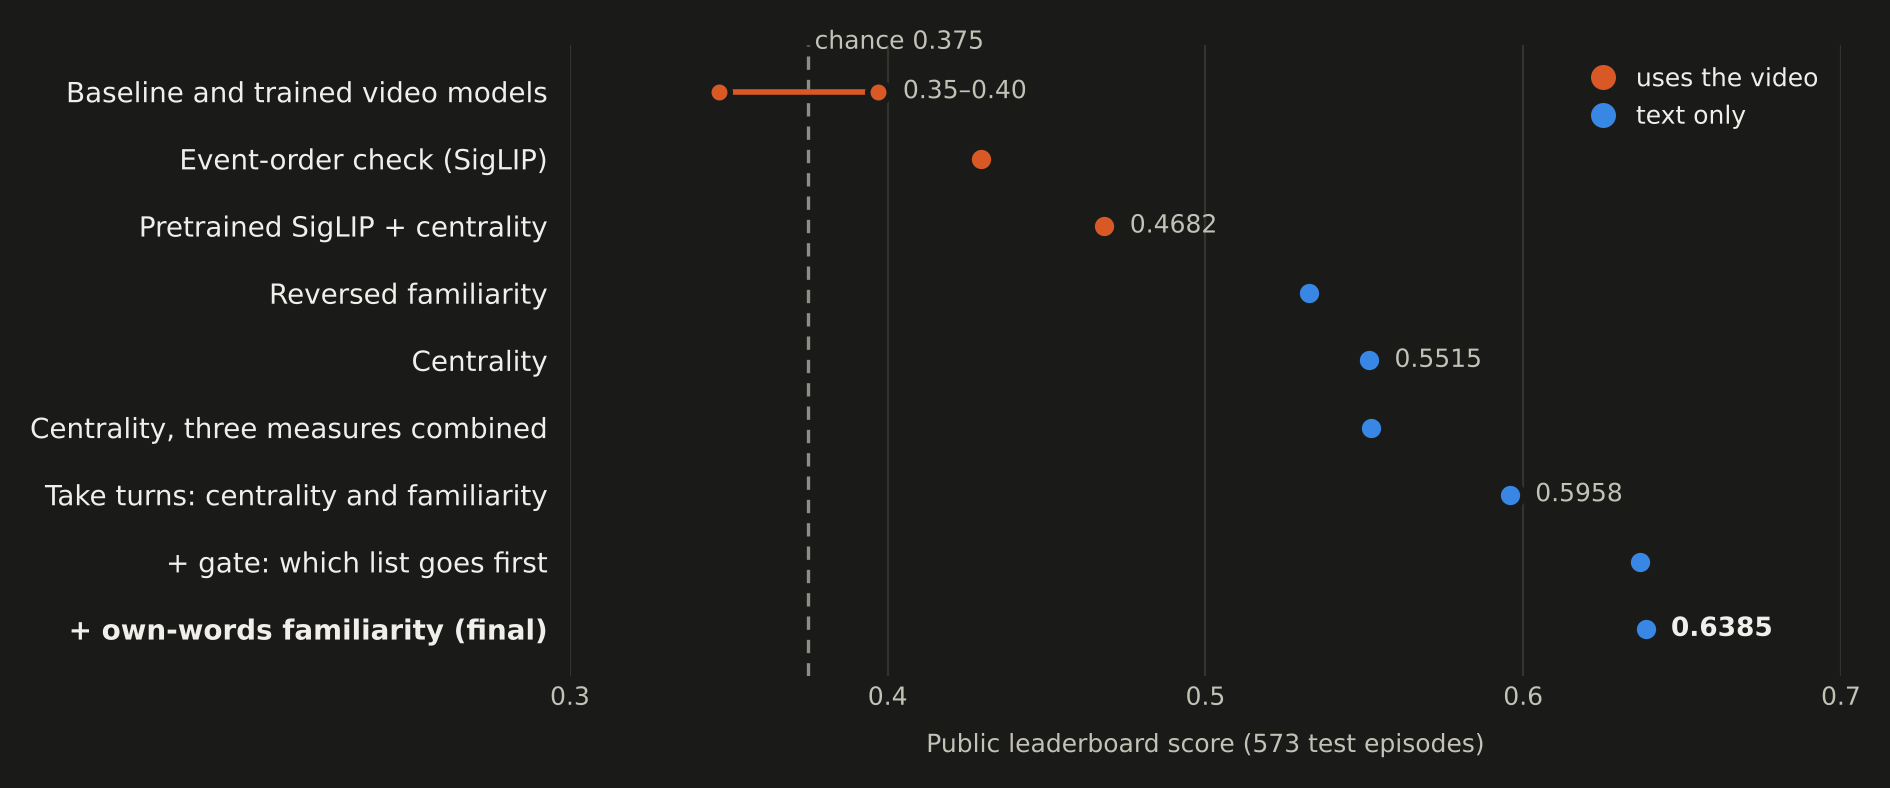
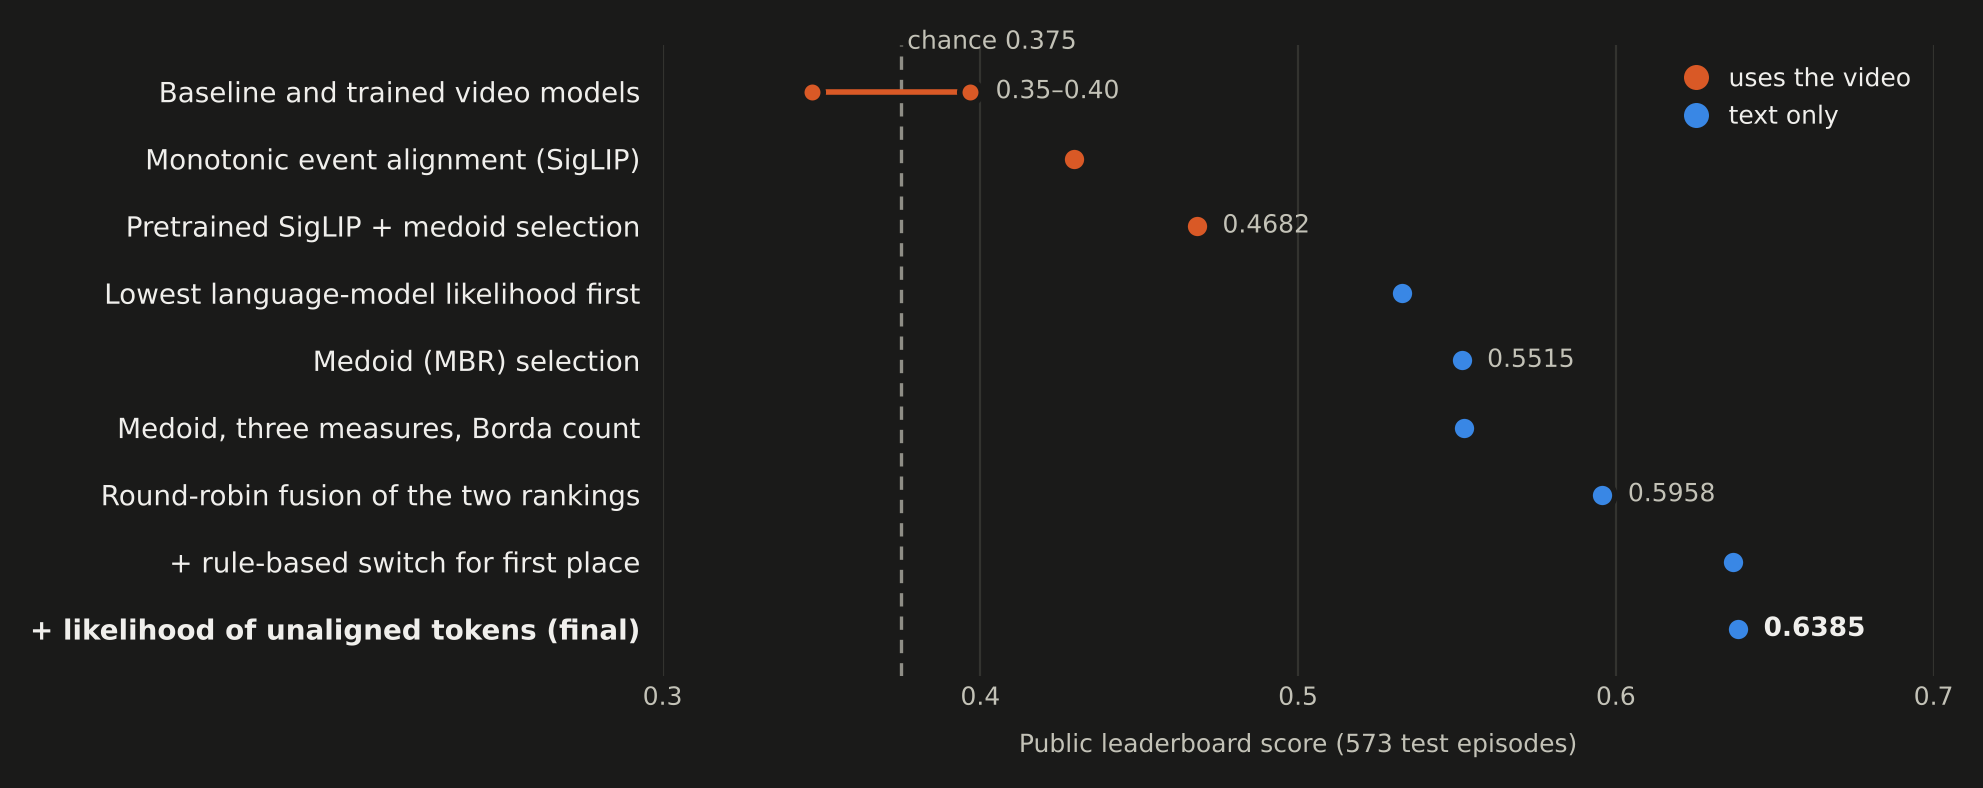
Use standard method names in the README, figures and docstrings; add docs/glossary.md
Medoid / MBR selection (our centrality), n-gram language-model likelihood (familiarity), round-robin rank
fusion (interleave), rule-based switch (gate), unaligned tokens (own words), Borda count (text_blend),
monotonic alignment (event-order check), and the main finding named as annotation artifacts measured by
a hypothesis-only baseline, with references checked against their sources. Code identifiers, config keys
and --method values keep our names, since the submitted configuration depends on them; the
competition-day records keep their wording and point to the glossary.

diff --git a/docs/figures/make_figures.py b/docs/figures/make_figures.py
@@ -32,17 +32,17 @@ THEMES = {  # reference palette (dataviz skill), validated: slot 1 blue, slot 2 
 # (label, public score, uses the video); top to bottom in the order we got there
 STEPS = [
     ("Baseline and trained video models", (0.3469, 0.3968), True),
-    ("Event-order check (SigLIP)", 0.4295, True),
-    ("Pretrained SigLIP + centrality", 0.4682, True),
-    ("Reversed familiarity", 0.5327, False),
-    ("Centrality", 0.5515, False),
-    ("Centrality, three measures combined", 0.5521, False),
-    ("Take turns: centrality and familiarity", 0.5958, False),
-    ("+ gate: which list goes first", 0.6368, False),
-    ("+ own-words familiarity (final)", 0.6385, False),
-]
-LABELLED = {"Pretrained SigLIP + centrality", "Centrality", "Take turns: centrality and familiarity",
-            "+ own-words familiarity (final)"}
+    ("Monotonic event alignment (SigLIP)", 0.4295, True),
+    ("Pretrained SigLIP + medoid selection", 0.4682, True),
+    ("Lowest language-model likelihood first", 0.5327, False),
+    ("Medoid (MBR) selection", 0.5515, False),
+    ("Medoid, three measures, Borda count", 0.5521, False),
+    ("Round-robin fusion of the two rankings", 0.5958, False),
+    ("+ rule-based switch for first place", 0.6368, False),
+    ("+ likelihood of unaligned tokens (final)", 0.6385, False),
+]  # standard names; docs/glossary.md maps them to the names in our code
+LABELLED = {"Pretrained SigLIP + medoid selection", "Medoid (MBR) selection", "Round-robin fusion of the two rankings",
+            "+ likelihood of unaligned tokens (final)"}
 
 # The organizers' slides show a reversed action and an added action; the other two are our negative types.
 CANDIDATES = [

diff --git a/team/inference/submission_text_rules.py b/team/inference/submission_text_rules.py
@@ -16,6 +16,9 @@ character familiarity (team/inference/submission_chars.py, case and punctuation 
 the first list from a candidate's own words only (`own_word_scores`), and `gate_mean` from the within-episode mean of that and
 the least familiar wording; otherwise, `gate_base_first` moves the candidates with no own words to the front. No state is
 kept between episodes.
+
+Standard names: medoid (MBR) selection fused by rank sum (Borda count); round-robin rank fusion (interleave);
+a rule-based switch (gate); unaligned tokens (own words). Our names are mapped in docs/glossary.md.
 """
 
 import difflib

diff --git a/team/inference/submission_style.py b/team/inference/submission_style.py
@@ -6,6 +6,9 @@ create. `style_sign` in inference_config.json set to -1 favours the least famili
 this rule scored 0.2411 publicly, well below chance. `central_rank_weight` adds the rank from
 candidate similarity. `merge` set to "interleave" instead takes the most central candidate, then the
 top of the style ranking, and so on in turn. No images are used, and no state is kept between episodes.
+
+Standard names: n-gram language-model likelihood (interpolated word bigram); style_sign -1 ranks lowest
+likelihood first. Our names are mapped in docs/glossary.md.
 """
 
 import difflib

diff --git a/team/inference/submission_regime.py b/team/inference/submission_regime.py
@@ -8,6 +8,9 @@ prefers wording that the training descriptions make less likely (bigram counts s
 weights/bigram_counts.json), because publicly the most familiar wording scored far below chance.
 With `"gate": false` in weights/bigram_counts.json, centrality always goes first (plain
 interleaving). Reads only the episode's candidate texts, with no state kept between episodes.
+
+Standard names: a rule-based switch between medoid selection and lowest language-model likelihood, then round-
+robin rank fusion. Our names are mapped in docs/glossary.md.
 """
 
 import difflib

diff --git a/team/inference/submission_central.py b/team/inference/submission_central.py
@@ -4,6 +4,9 @@ A diagnostic: it reads only the episode's own candidate texts and no video, so i
 shows whether test negatives are edits of the correct description. When every negative changes
 one part of the correct text, the correct text is the one most similar to all the others. Uses
 nothing but the standard library, and keeps no state between episodes.
+
+Standard names: medoid / minimum Bayes risk (MBR) selection with word-sequence (Ratcliff/Obershelp)
+similarity. Our names are mapped in docs/glossary.md.
 """
 
 import difflib

diff --git a/team/candidates/lexical.py b/team/candidates/lexical.py
@@ -5,6 +5,9 @@ validation split one description was the negative of 28 others while 103 were ne
 text-only classifier could spot negatives from that skew (score 0.485). CSLS (Conneau et al.,
 2018) subtracts each description's mean similarity to its k nearest neighbours, which spreads the
 picks and brings the text-only score to chance. Uses only the descriptions; no model scores.
+
+Standard names: hubness reduction (CSLS) applied to word-overlap similarity. Our names are mapped in
+docs/glossary.md.
 """
 
 import numpy as np

diff --git a/team/inference/submission_order.py b/team/inference/submission_order.py
@@ -7,6 +7,9 @@ when the order fits, more negative the more it has to be bent. Ties go to centra
 (submission_central.py). No trained layers; SigLIP is stored in float16 and its tokenizer is read
 from tokenizer.json, because sentencepiece isn't in the evaluation environment. No state is kept
 between episodes. Same scoring as team/evaluation/order_check.py.
+
+Standard names: monotonic event-to-frame alignment by dynamic programming. Our names are mapped in
+docs/glossary.md.
 """
 
 import re

diff --git a/team/evaluation/text_rules.py b/team/evaluation/text_rules.py
@@ -23,6 +23,9 @@ public scores of the rules that were uploaded.
 
     python -m team.evaluation.text_rules --generated cuda/outputs/qwen/long_negatives.jsonl \
         --splits cuda/outputs/baseline/splits.json
+
+Standard names: medoid (MBR) selection, n-gram language-model likelihood, round-robin rank fusion and a rule-
+based switch, checked offline. Our names are mapped in docs/glossary.md.
 """
 
 import argparse

diff --git a/team/evaluation/merge_bounds.py b/team/evaluation/merge_bounds.py
@@ -12,6 +12,9 @@ pair (a, b) this enumerates all 4! x 4! placements of the negatives and scores t
 
     python -m team.evaluation.merge_bounds cuda/public_csv/central_submission.csv cuda/public_csv/text_style.csv \
         --reverse-second --observed-rank-sum 0.5443
+
+Standard names: worst-case bounds of rank fusion by exhaustive enumeration. Our names are mapped in
+docs/glossary.md.
 """
 
 import argparse

diff --git a/team/training/train_order.py b/team/training/train_order.py
@@ -13,6 +13,8 @@ with LLM-written order changes (Qwen `changed_order`, a type never trained on) a
 
     python -m team.training.train_order --features cuda/outputs/order/features.pt \
         --splits cuda/outputs/baseline/splits.json --output cuda/outputs/order/aligner.pt
+
+Standard names: a learned monotonic event-to-frame alignment. Our names are mapped in docs/glossary.md.
 """
 
 import argparse

diff --git a/team/evaluation/order_check.py b/team/evaluation/order_check.py
@@ -11,6 +11,9 @@ event, so any text-only preference cancels and only the order counts.
 right video, another episode's video and the right video reversed.
 
     python -m team.evaluation.order_check --episodes 200
+
+Standard names: monotonic (order-preserving) alignment by dynamic programming, as in dynamic time warping. Our
+names are mapped in docs/glossary.md.
 """
 
 import argparse

diff --git a/team/evaluation/action_pairing.py b/team/evaluation/action_pairing.py
@@ -7,6 +7,8 @@ validation records from team.candidates.qwen_negatives and any exported ranker s
 
     python -m team.evaluation.action_pairing --config cuda/config.json \
         --generated cuda/outputs/qwen/candidates_v3.jsonl --submission-dir cuda/q2_submission
+
+Standard names: a reversed-video consistency test. Our names are mapped in docs/glossary.md.
 """
 
 import argparse
